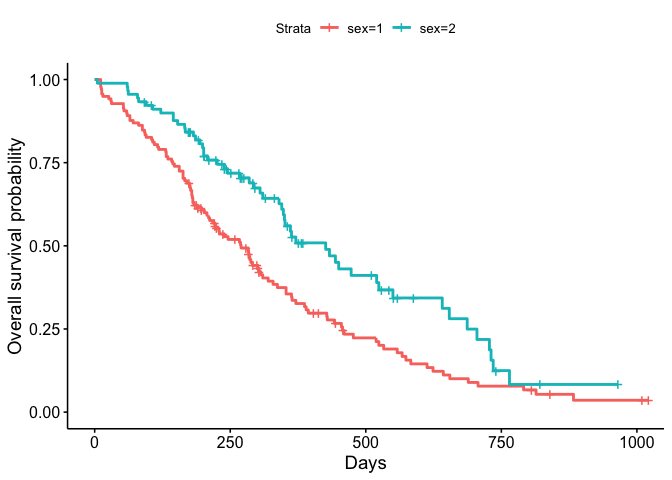
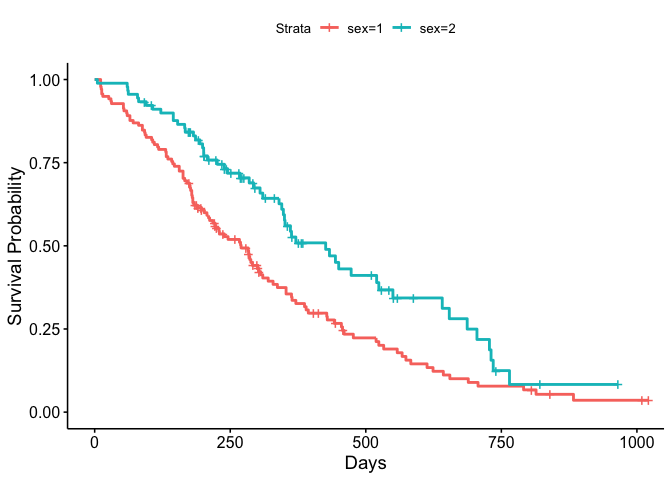
fix-plot-title

Changed region(s): [[0.0, 0.2812, 0.0312, 0.75]]

diff --git a/R/Survival.md b/R/Survival.md
@@ -43,7 +43,7 @@ lung %>% count(status)
 ggsurvplot(
     fit = survfit(Surv(time, status) ~ sex, data = lung), 
     xlab = "Days", 
-    ylab = "Overall survival probability")$plot
+    ylab = "Survival Probability")$plot
 ```
 
 ![](../rmd_images/Survival/unnamed-chunk-2-1.png)<!-- -->
